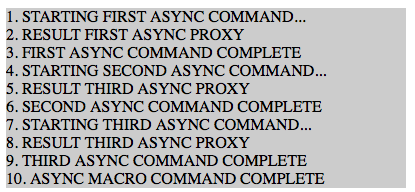
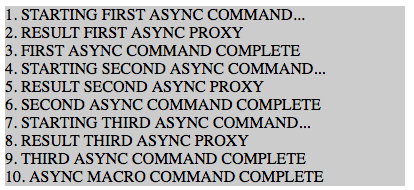
init

diff --git a/js/model/ThirdAsyncProxy.js b/js/model/ThirdAsyncProxy.js
@@ -24,6 +24,6 @@ puremvc.define(
     }
 },
 {
-    NAME: "SecondAsyncProxy"
+    NAME: "ThirdAsyncProxy"
 }
 );
